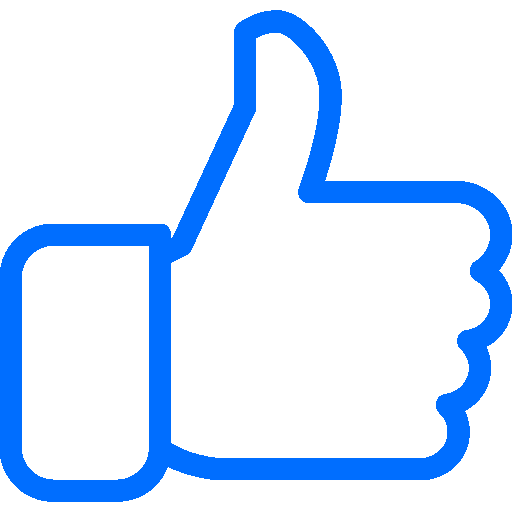
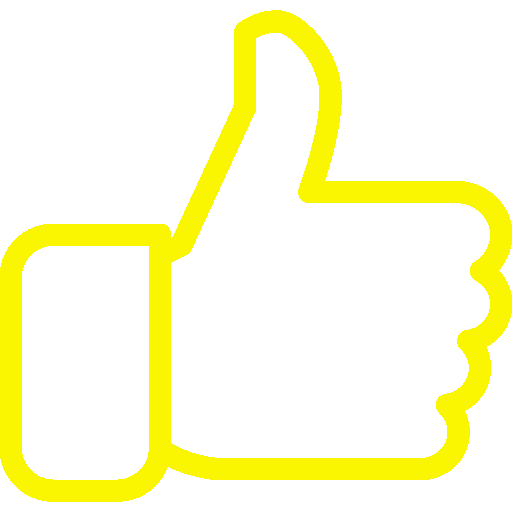
Adding bottom navigation
- changing app color
- trying to add a bottom navigation

Changed region(s): [[0.0, 0.0, 1.0, 1.0]]

diff --git a/mobile/App.js b/mobile/App.js
@@ -5,6 +5,10 @@ import DeslikeIcon from './src/assets/deslike.png';
 import LikeIcon from './src/assets/like.png';
 import api from './src/services/api'
 import Video from 'react-native-video';
+import BottomNavigation from './src/components/bottomNavigation/bottom-navigation'
+import GoogleAds from './src/components/ad/google-ads';
+
+// require('dotenv').config()
 
 
 export default class Exemple extends Component {
@@ -25,7 +29,7 @@ export default class Exemple extends Component {
 
   loadRequests = async() => {
     try{
-        const token = "eyJhbGciOiJIUzI1NiIsInR5cCI6IkpXVCJ9.eyJpZCI6IjYwYWFjODNlMTM1ZGFhMjA5OGI4NjNmMiIsImlhdCI6MTYyMjIzNTA3NSwiZXhwIjoxNjI0ODI3MDc1fQ._YxR62UuFBB8fJoDC_e5qUVuqjeJspSuaj3TtqLR4E8"
+        const token = 'eyJhbGciOiJIUzI1NiIsInR5cCI6IkpXVCJ9.eyJpZCI6IjYwYmQwODRkMzc5NjNmMjQ2NDk4NGM1NCIsImlhdCI6MTYyMzAwMTE2NX0.oBbomwcmmVKXLJ5XJEpMEevJf-NX4OCsI9RzY2SNWMA'
         const authorizaton = {
             headers: {
             'Authorization': `Bearer ${token}` 
@@ -41,71 +45,77 @@ export default class Exemple extends Component {
   }
 
 
+  rateMeme = (cardIndex) => {
+    console.log(cardIndex)
+  }
+
+
   render(){
       const DeslikeIconUri = Image.resolveAssetSource(DeslikeIcon).uri
       const LikeIconUri = Image.resolveAssetSource(LikeIcon).uri
+
       return !this.state.isloading ? (
       <SafeAreaView style={styles.container}>
+        
         <Swiper
             cards={this.state.meme}
             renderCard={(card) => {
 
-              const playNow = this.state.meme.indexOf(card) === this.state.currentCard ? false : true
-              
-              console.log(`IOF: ${this.state.meme.indexOf(card)} | CC: ${this.state.currentCard} | PNW: ${playNow}`)
+              const playNow = this.state.meme.indexOf(card) == this.state.currentCard ? true : false
+              // console.log(`IOF: ${this.state.meme.indexOf(card)} | CC: ${this.state.currentCard} | PNW: ${playNow}`)
 
                 return (
                     <View style={styles.card}>
-                          {
-                            card.mimetype.includes('video') ?
-                            <Video repeat={true} style={styles.memeContent} paused={playNow} controls={true} source={{
-                              uri: card.imageUrl
-                            }}/>
-                        
-                            :
 
-                            <Image style={styles.memeContent} source={{
-                              uri: card.imageUrl
-                            }}/>
+                        { 
+                          card.mimetype.includes('video') ?
+                          <Video repeat={true} style={styles.memeContent} paused={playNow} controls={true} source={{
+                            uri: card.imageUrl
+                          }}/>
+                      
+                          :
 
-                          }
+                          <Image style={styles.memeContent} source={{
+                            uri: card.imageUrl
+                          }}/>
+                        }
 
                       <View style={styles.cardBottom}>
 
-                        <Image style={styles.deslikeIcon} source={{
-                          uri: DeslikeIconUri
-                        }}/>
+                        <View style={styles.rateView}>
+                          <Image style={styles.deslikeIcon} source={{ uri: DeslikeIconUri }}/>
+                          <Text style={styles.dislikestxt}> {card.dislikes} </Text>
+                        </View>
+
 
                         <View style={styles.cardBottomMiddle}>
                           <Text style={styles.memeDescriptionTxt}>{card.description}</Text>
                           <Text style={styles.publisherNameTxt}>@{card.publisherName}</Text>
                         </View>
 
-                        <Image style={styles.likeIcon} source={{
-                          uri: LikeIconUri
-                        }}/>
+                        <View>
+                          <Image style={styles.likeIcon} source={{ uri: LikeIconUri }}/>
+                          <Text style={styles.likestxt}> {card.likes} </Text>
+                        </View>
+
 
                       </View>
                     </View>
                 )
             }}
             verticalSwipe={false}
-            onSwiped={(cardIndex) => {console.log(cardIndex); this.setState({currentCard: cardIndex + 1})}}
+            onSwiped={(cardIndex) => {console.log(cardIndex); this.setState({currentCard: cardIndex + 1}); this.rateMeme(cardIndex)}}
             onSwipedAll={() => {console.log('onSwipedAll')}}
             cardIndex={0}
             backgroundColor={'#1f2125'}
             stackSize={3}
-            cardHorizontalMargin={1}>
+            cardHorizontalMargin={1}
+            >
 
-          <TouchableOpacity style={styles.uploadButton} title="TESTE">
-            <Text style={styles.uploadButtonTxt}>Upload Meme</Text>
-          </TouchableOpacity>
+          <BottomNavigation page='home'/>
+          <GoogleAds/>
 
-          <TouchableOpacity style={styles.likedMemesButton} title="TESTE">
-            <Text style={styles.uploadButtonTxt}>Liked Memes</Text>
-          </TouchableOpacity>
-
-            </Swiper>
+          </Swiper>
       </SafeAreaView>
     ) : (
       <SafeAreaView style={styles.container}>
@@ -125,8 +135,8 @@ const styles = StyleSheet.create({
     justifyContent: "center",
     backgroundColor: "#282a2e",
     width: '100%',
-    maxHeight: '85%',
-    marginTop: 50,
+    maxHeight: '86%',
+    marginTop: 20,
     shadowColor: '#000',
     shadowOffset: { width: 0, height: 1 },
     shadowOpacity: 1,
@@ -137,7 +147,6 @@ const styles = StyleSheet.create({
     alignItems: 'center'
   },
   cardBottom: {
-    // backgroundColor: '#FFC000',
     flexDirection: 'row',
     justifyContent: 'space-between',
     alignItems: 'center',
@@ -147,15 +156,15 @@ const styles = StyleSheet.create({
     alignSelf: 'flex-end'
   },
   likeIcon: {
-    width: 50,
-    height: 50,
-    marginRight: 10
+    width: 40,
+    height: 40,
+    marginRight: 15
   },
   deslikeIcon:{
-    width: 50,
-    height: 50,
+    width: 40,
+    height: 40,
     transform: [{ rotate: '180deg' }],
-    marginLeft: 10
+    marginLeft: 15
   },
   text: {
     textAlign: "center",
@@ -189,31 +198,17 @@ const styles = StyleSheet.create({
   memeDescriptionTxt:{
     color: '#f5f5f5'
   },
-  uploadButton:{
-    height: 50,
-    width: 110,
-    margin: 10,
-    borderColor: '#006eff',
-    borderWidth: 2,
-    justifyContent: 'center',
-    alignItems: 'center',
-    borderRadius: 10,
-    position: 'absolute',
-    right: 0
+  rateView: {
+    color: '#00FFC0'
   },
-  likedMemesButton: {
-    height: 50,
-    width: 110,
-    margin: 10,
-    borderColor: '#006eff',
-    borderWidth: 2,
-    justifyContent: 'center',
-    alignItems: 'center',
-    borderRadius: 10,
-    position: 'absolute',
-    left: 0
+  dislikestxt:{
+    color: '#fff',
+    marginLeft: 28,
+    marginTop: 10
   },
-  uploadButtonTxt:{
-    color: '#fff'
+  likestxt:{
+    color: '#fff',
+    marginLeft: 15,
+    marginTop: 10
   }
 });

diff --git a/mobile/src/components/bottomNavigation/bottom-navigation.js b/mobile/src/components/bottomNavigation/bottom-navigation.js
@@ -1,0 +1,85 @@
+import React, { Component } from 'react'
+import { Button, StyleSheet, Text, View, SafeAreaView, Image, TouchableOpacity} from 'react-native'
+import HeartIcon from '../../assets/heart.png';
+import ShareIcon from '../../assets/share.png';
+import UploadIcon from '../../assets/upload.png';
+import DuckIcon from '../../assets/duck.png';
+import ProfileIcon from '../../assets/profile.png';
+
+
+export default class BottomNavigation extends Component {
+
+    render(){
+      const HeartIconUri = Image.resolveAssetSource(HeartIcon).uri
+      const ShareIconUri = Image.resolveAssetSource(ShareIcon).uri
+      const UploadIconUri = Image.resolveAssetSource(UploadIcon).uri
+      const DuckIconUri = Image.resolveAssetSource(DuckIcon).uri
+      const ProfileIconUri = Image.resolveAssetSource(ProfileIcon).uri
+
+        return(
+            <SafeAreaView style={styles.boxstyle}>
+                <TouchableOpacity style={styles.button} title="TESTE">
+                    <Image style={styles.icons} source={{ uri: UploadIconUri }}/>
+                </TouchableOpacity>
+
+                <TouchableOpacity style={styles.button} title="TESTE">
+                    <Image style={styles.icons} source={{ uri: ProfileIconUri }}/>
+                </TouchableOpacity>
+
+                <TouchableOpacity style={styles.homeButton} title="TESTE">
+                    <Image style={styles.icons} source={{ uri: DuckIconUri }}/>
+                </TouchableOpacity>
+
+                <TouchableOpacity style={styles.button} title="TESTE">
+                    <Image style={styles.icons} source={{ uri: HeartIconUri }}/>
+                </TouchableOpacity>
+
+                <TouchableOpacity style={styles.button} title="TESTE">
+                    <Image style={styles.icons} source={{ uri: ShareIconUri }}/>
+                </TouchableOpacity>
+            </SafeAreaView>
+        )
+    }
+}
+
+const styles =  StyleSheet.create({
+    boxstyle: {
+        flexDirection: 'row',
+        position: 'absolute',
+        bottom: 0,
+        width: '100%',
+        height: 60,    
+        // backgroundColor: '#00FFC0',
+        zIndex: 10,
+        alignItems: 'center',
+        justifyContent: 'center',
+        // marginBottom: 10,
+        backgroundColor: "#282a2e",
+        
+    },
+    homeButton:{
+        height: 55,
+        width: 55,
+        margin: 10,
+        marginBottom: 40,
+        borderColor: '#faf601',
+        borderWidth: 2,
+        justifyContent: 'center',
+        alignItems: 'center',
+        borderRadius: 20,
+        backgroundColor: "#282a2e",
+    },
+    button:{
+        height: 50,
+        width: 55,
+        margin: 10,
+        justifyContent: 'center',
+        alignItems: 'center',
+        borderRadius: 10,
+    },
+    icons:{
+        width: 30,
+        height: 30,
+        opacity: 0.3
+    },
+})

diff --git a/mobile/src/components/ad/google-ads.js b/mobile/src/components/ad/google-ads.js
@@ -1,0 +1,24 @@
+import React, { Component } from 'react'
+import { Button, StyleSheet, Text, View, SafeAreaView, Image, TouchableOpacity} from 'react-native'
+
+export default class GoogleAds extends Component {
+
+    render(){
+        return(
+            <SafeAreaView style={styles.boxstyle}>
+                <Text> GOOGLE ADS</Text>
+            </SafeAreaView> 
+        )
+    }
+}
+
+const styles =  StyleSheet.create({
+    boxstyle: {
+        position: 'absolute',
+        top: 0,
+        width: '100%',
+        height: 60,    
+        backgroundColor: '#eb3434',
+        zIndex: 10,
+    }
+})
